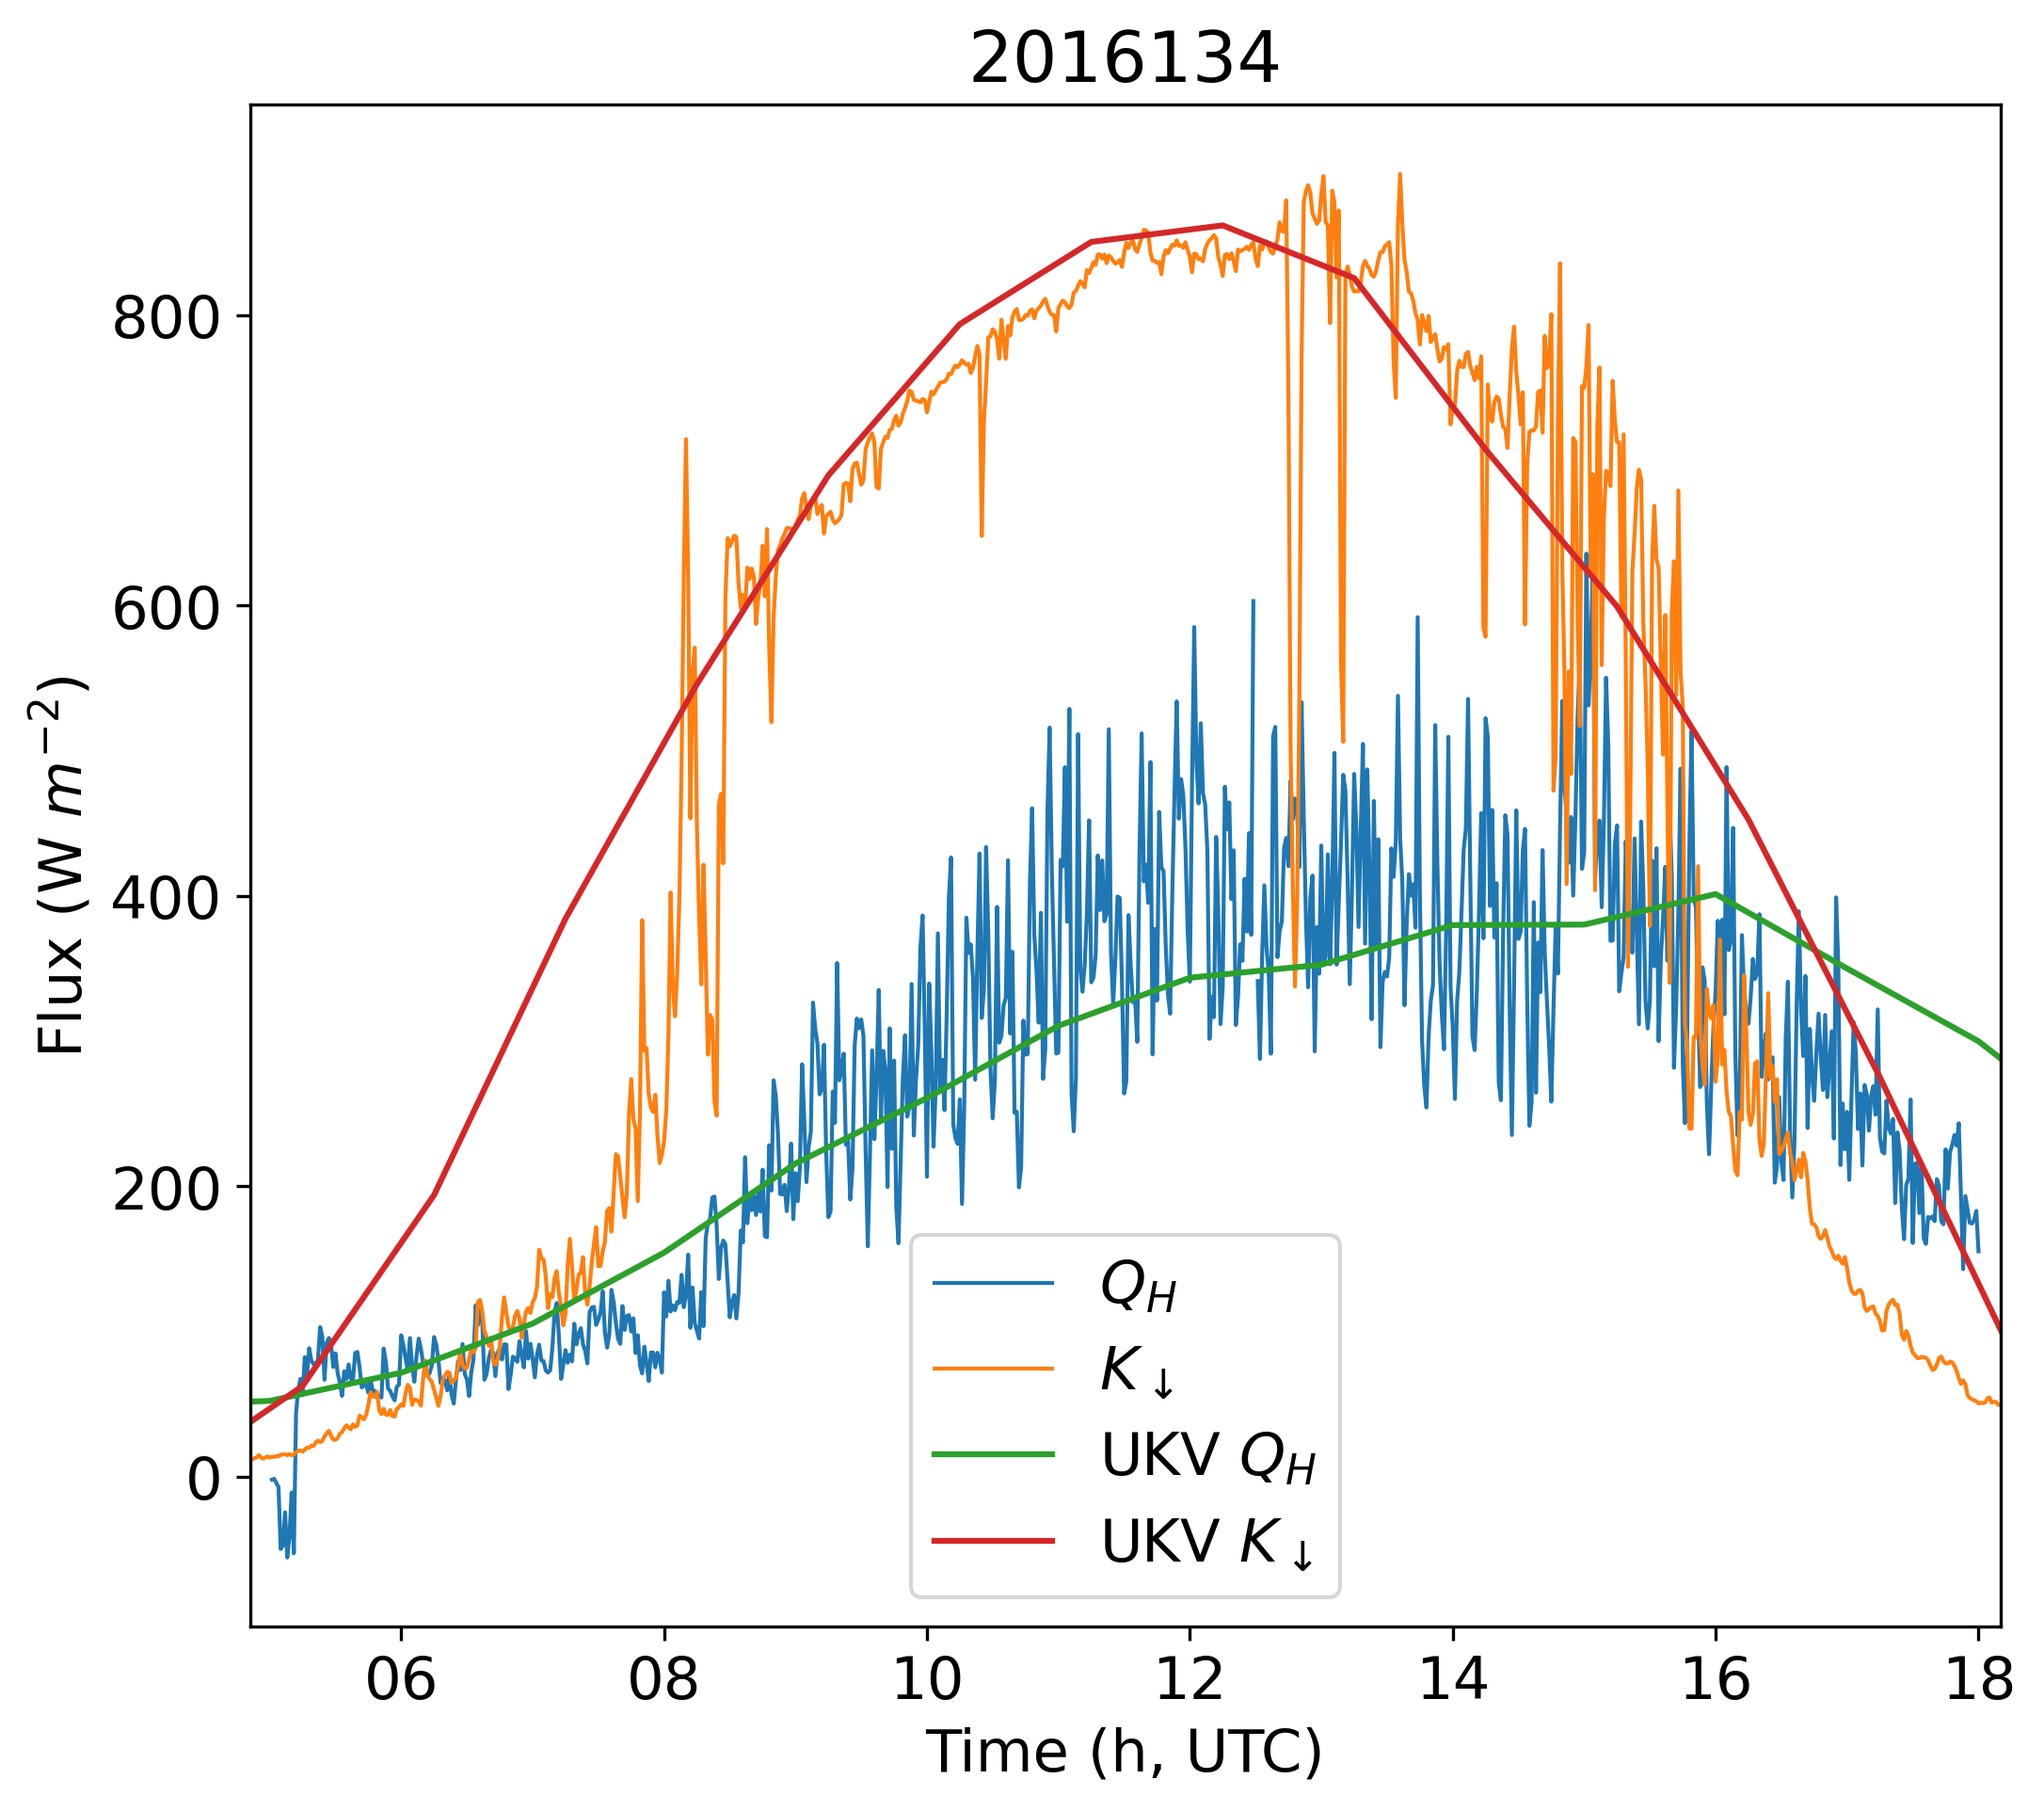
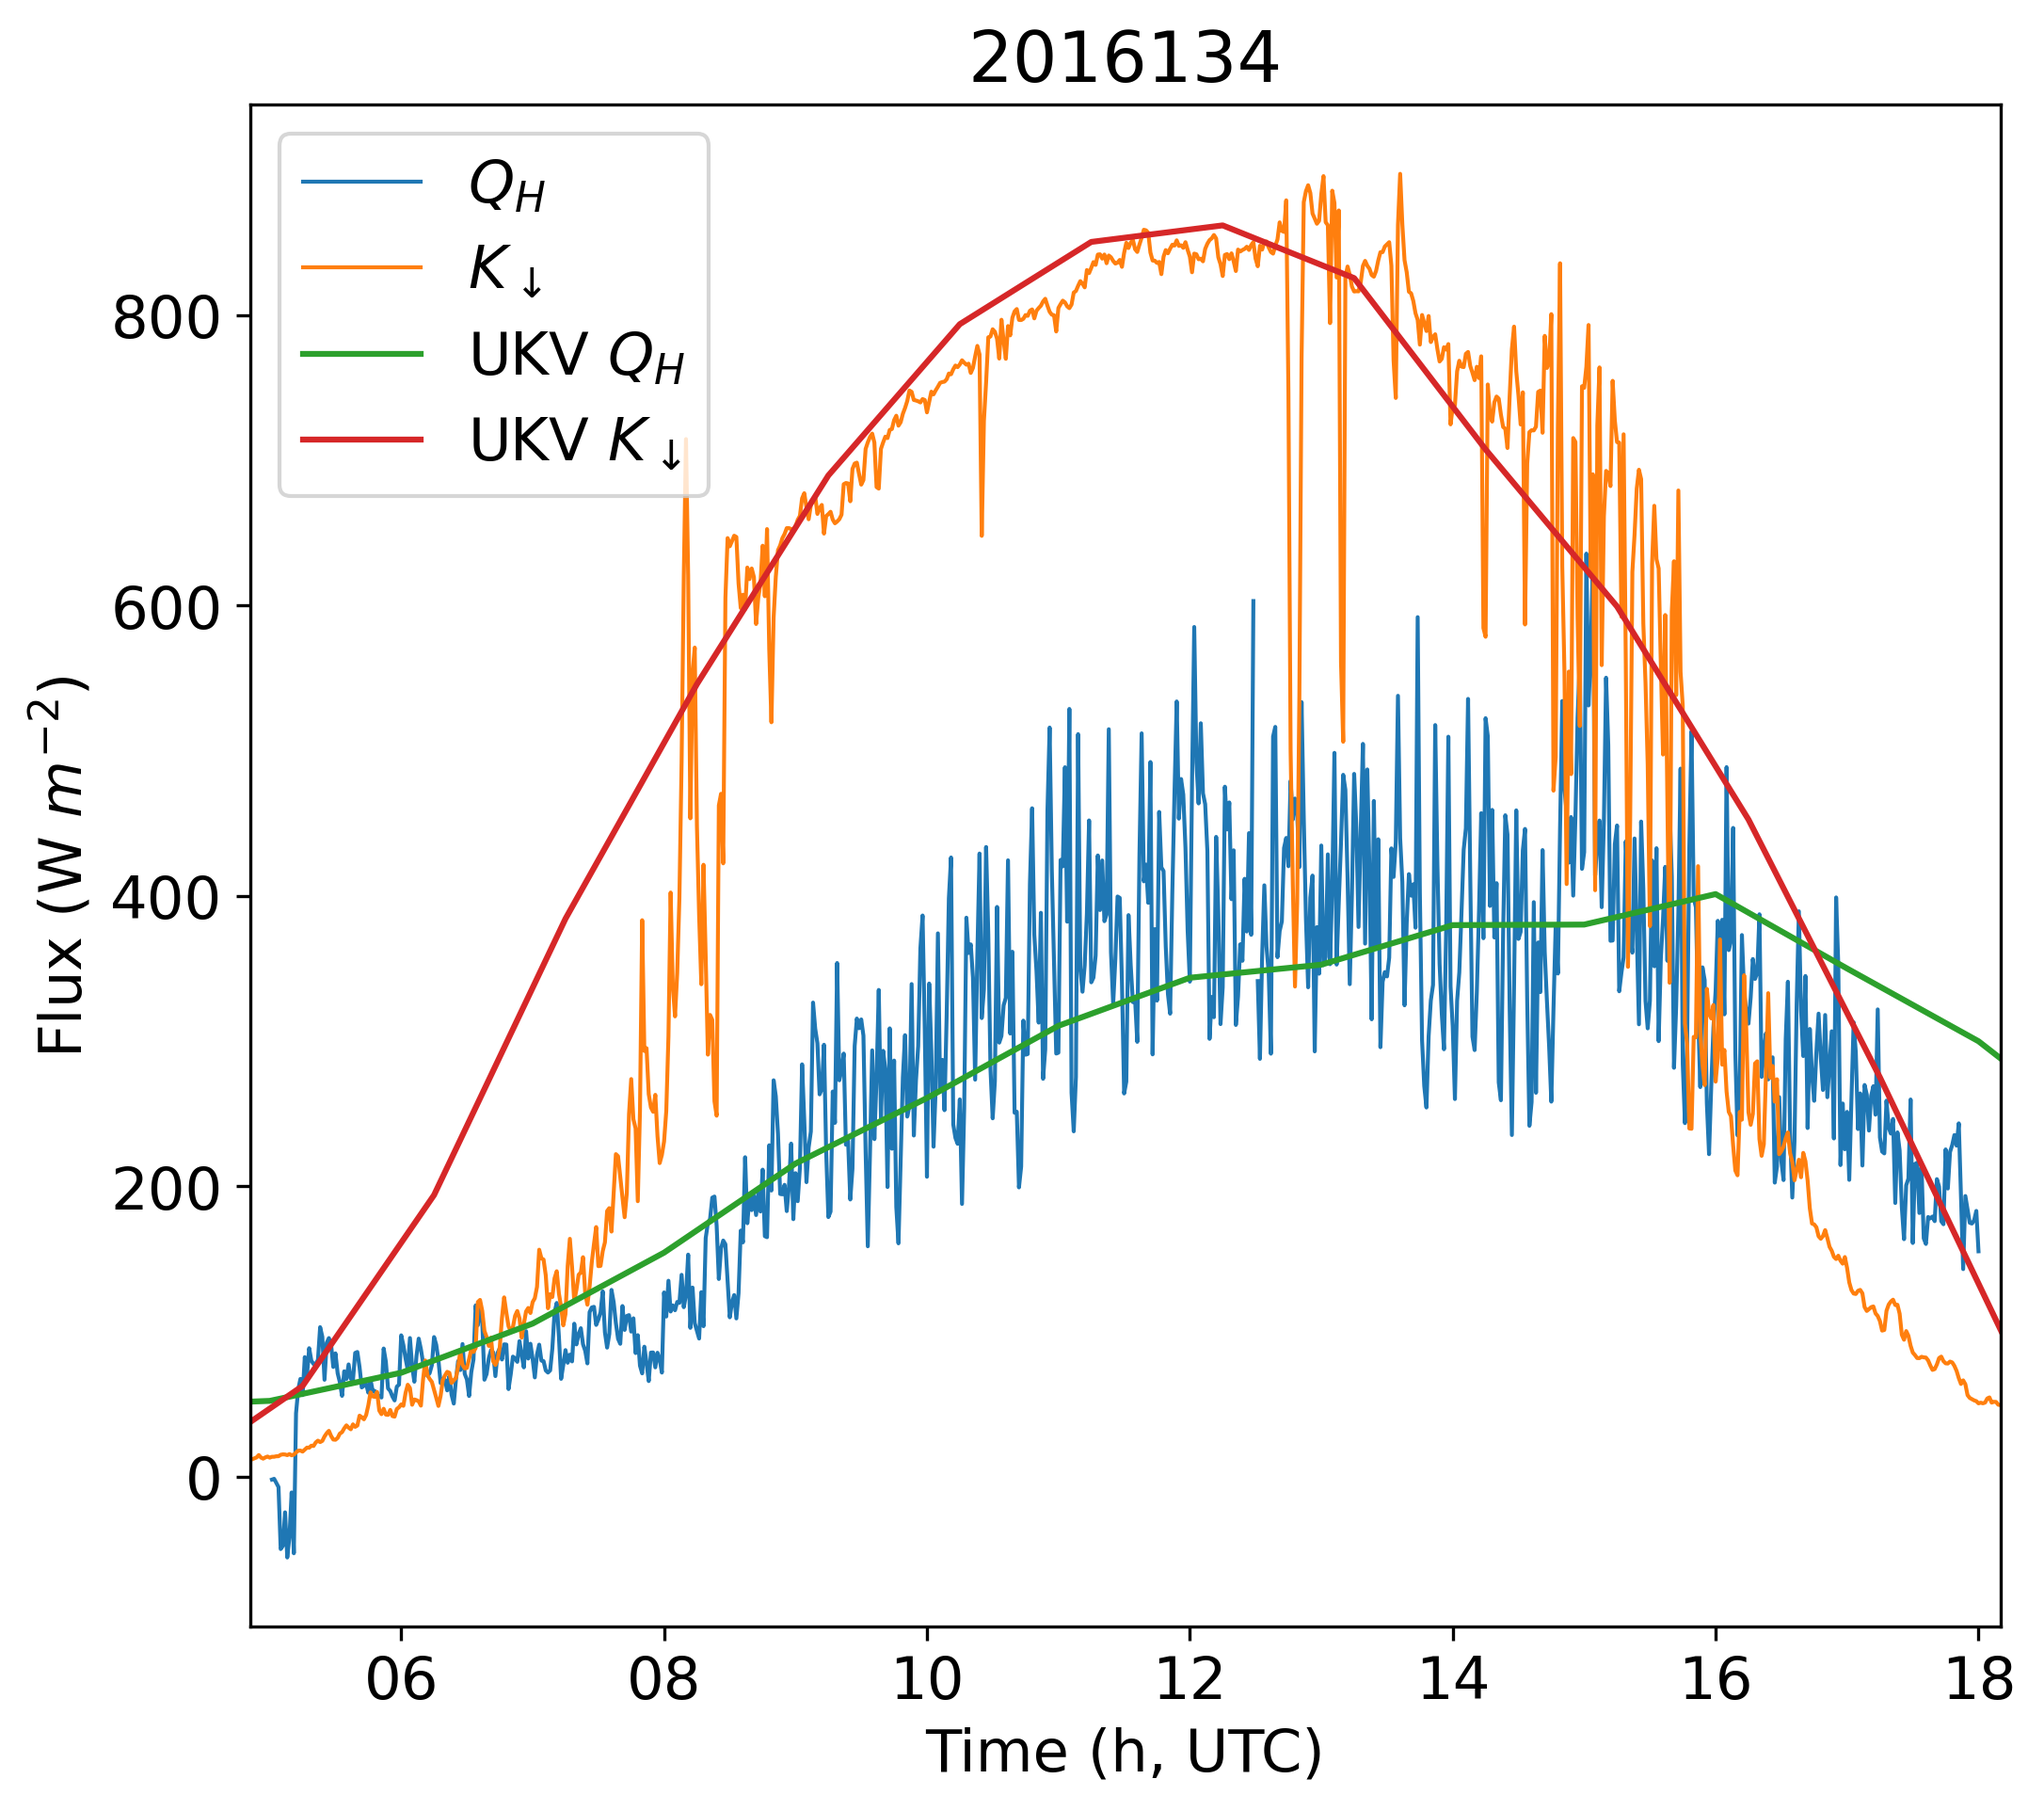
add all models

diff --git a/scint_plots/line_time_series/line_time_series_funs.py b/scint_plots/line_time_series/line_time_series_funs.py
@@ -8,7 +8,6 @@ import os
 
 mpl.rcParams.update({'font.size': 15})
 
-
 def times_series_line_QH_KDOWN(df, pair_id, model_df=False):
     """
     TIME SERIES OF Q AND KDOWN LINE PLOT
@@ -39,7 +38,9 @@ def times_series_line_QH_KDOWN(df, pair_id, model_df=False):
 
     ax.set_xlim(min(df_not_nan.index) - dt.timedelta(minutes=10), max(df_not_nan.index) + dt.timedelta(minutes=10))
 
-    plt.legend()
+
+    # plt.legend()
+    plt.legend(loc='upper left',)
 
     # plt.gcf().autofmt_xdate()
     ax.xaxis.set_major_formatter(DateFormatter('%H'))
@@ -75,5 +76,102 @@ def times_series_line_QH_KDOWN(df, pair_id, model_df=False):
     """
 
     plt.savefig(dir_name + pair_id + '_' + date_string + '_line_plot.png', bbox_inches='tight', dpi=300)
+
+    print('end')
+
+def times_series_line_QH_KDOWN_UM100(df, pair_id, UM_100=False):
+    """
+    TIME SERIES OF Q AND KDOWN LINE PLOT
+    :return:
+    """
+    plt.close('all')
+
+    fig = plt.figure(figsize=(8, 7))
+    ax = plt.subplot(1, 1, 1)
+
+    ax.plot(df['QH'], label='$Q_{H}$', linewidth=1, alpha=0.5, color='orange')
+
+
+
+    # label='UKV $Q_{H}$'
+
+    ax.set_xlabel('Time (h, UTC)')
+    ax.set_ylabel('Flux (W $m^{-2}$)')
+
+    # where QH is not nan
+    df_not_nan = df.iloc[np.where(np.isnan(df.QH) == False)[0]]
+
+    ax.set_xlim(min(df_not_nan.index) - dt.timedelta(minutes=10), max(df_not_nan.index) + dt.timedelta(minutes=10))
+
+    if UM_100:
+        # read the premade csv
+        UM100_csv_path = 'D:/Documents/scint_UM100/scint_UM100/data_retreval/BCT_IMU_134_UM100_QH_100m.csv'
+        UM_100_df = pd.read_csv(UM100_csv_path)
+
+        UM_100_df.index = UM_100_df.hour.astype('timedelta64[h]') + df.index[0]
+
+        ax.plot(UM_100_df.weighted_av_a.dropna(), label='W UM100 $Q_{H}$', color='red')
+        ax.plot(UM_100_df.av_a.dropna(), label='NW UM100 $Q_{H}$', color='red', linestyle='--')
+
+
+        # UM300
+
+        # read the premade csv
+        UM300_csv_path = 'D:/Documents/scint_UM100/scint_UM100/data_retreval/BCT_IMU_134_UM100_QH_300m.csv'
+        UM_300_df = pd.read_csv(UM300_csv_path)
+
+        UM_300_df.index = UM_300_df.hour.astype('timedelta64[h]') + df.index[0]
+
+        ax.plot(UM_300_df.weighted_av_a.dropna(), label='W UM300 $Q_{H}$', color='purple')
+        ax.plot(UM_300_df.av_a.dropna(), label='NW UM300 $Q_{H}$', color='purple', linestyle='--')
+
+        # UKV
+        # read the premade csv
+        UMukv_csv_path = 'D:/Documents/scint_UM100/scint_UM100/data_retreval/BCT_IMU_134_UM100_QH_ukv.csv'
+        UM_ukv_df = pd.read_csv(UMukv_csv_path)
+
+        UM_ukv_df.index = UM_ukv_df.hour.astype('timedelta64[h]') + df.index[0]
+
+        ax.plot(UM_ukv_df.weighted_av_a.dropna(), label='W UKV $Q_{H}$', color='blue')
+        ax.plot(UM_ukv_df.av_a.dropna(), label='NW UKV $Q_{H}$', color='blue', linestyle='--')
+
+
+    # plt.legend()
+    plt.legend(loc='center left', bbox_to_anchor=(1, 0.5))
+
+    # plt.gcf().autofmt_xdate()
+    ax.xaxis.set_major_formatter(DateFormatter('%H'))
+
+    if df.index[0].strftime('%Y%j') == '2016126':
+        plt.title('Clear')
+        ax.set_ylim(0, 1000)
+
+    elif df.index[0].strftime('%Y%j') == '2016123':
+        plt.title('Cloudy')
+        ax.set_ylim(0, 1000)
+
+    else:
+        plt.title(df.index[0].strftime('%Y%j'))
+
+    # save plot
+    date_string = df['QH'].dropna().index[0].strftime('%Y%j')
+
+    # ToDo: a proper solution for here
+    dir_name = './'
+    """
+    if type(model_df) == bool:
+        if model_df == False:
+            dir_name = './'
+        else:
+            raise ValueError('Type of model df has gone wrong.')
+
+    else:
+        main_dir = 'C:/Users/beths/OneDrive - University of Reading/Paper 2/FLUX_PLOTS/'
+        dir_name = main_dir + date_string + '/'
+        if not os.path.exists(dir_name):
+            os.makedirs(dir_name)
+    """
+
+    plt.savefig(dir_name + pair_id + '_' + date_string + '_UM100_line_plot.png', bbox_inches='tight', dpi=300)
 
     print('end')

diff --git a/scint_plots/line_time_series/main_line_time_series_UM100.py b/scint_plots/line_time_series/main_line_time_series_UM100.py
@@ -1,0 +1,32 @@
+import datetime as dt
+
+from scint_flux.functions import read_calculated_fluxes
+from scint_flux import look_up
+
+from scint_plots.line_time_series import line_time_series_funs
+from scint_plots.tools.preprocessed_UKV_csvs import read_UKV_csvs
+
+
+
+scint_path = 12
+DOY_list = [2016134]
+var_list = ['QH', 'kdown']
+time_res = '1min_sa10_mins_ending'
+
+pair_id = look_up.scint_path_numbers[scint_path]
+
+DOY_dict = {}
+
+for DOY in DOY_list:
+
+    # read the observations
+    df = read_calculated_fluxes.extract_data(doy_list=[DOY],
+                                             pair_id=pair_id,
+                                             var_list=var_list,
+                                             time_res=time_res)
+
+
+    line_time_series_funs.times_series_line_QH_KDOWN_UM100(df, pair_id, UM_100=True)
+
+
+print('end')
